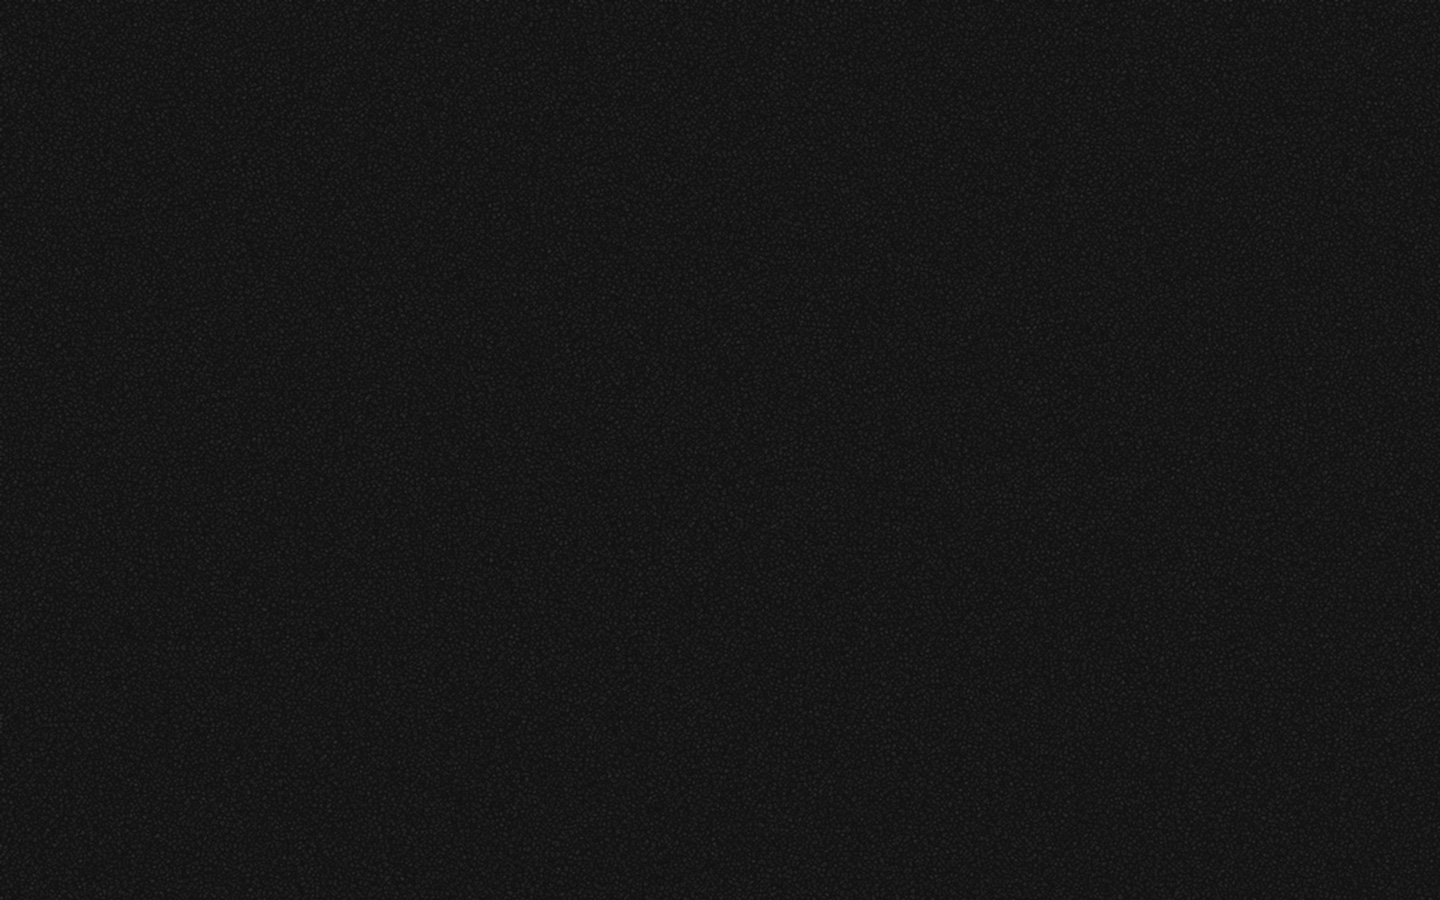
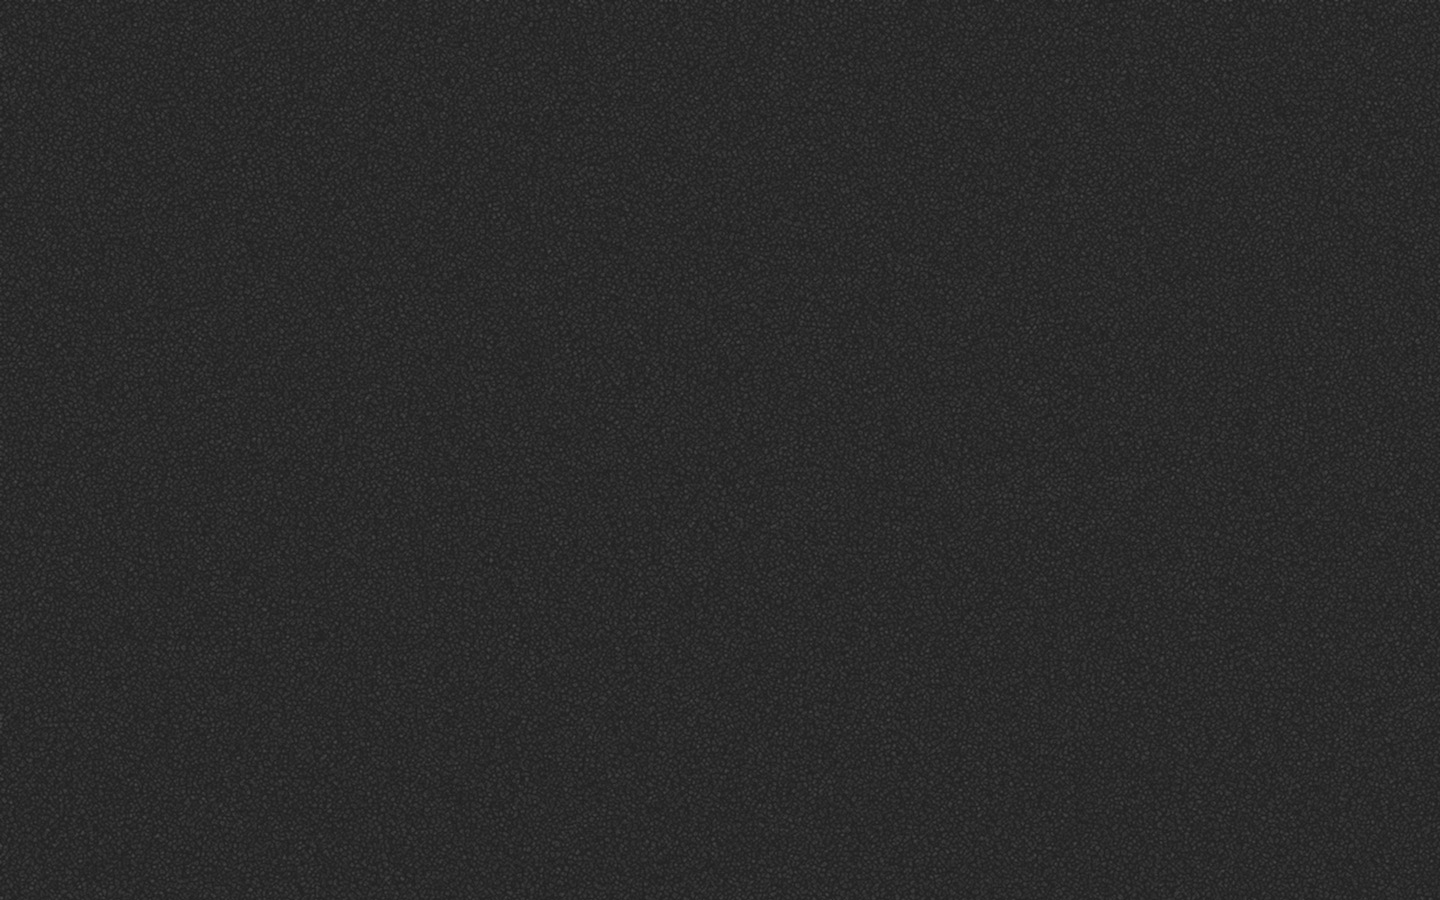
Howdy! CSS3 gradient sur le body

diff --git a/public/css/styles.css b/public/css/styles.css
@@ -53,8 +53,16 @@ body {
   width: 900px;
   margin: 0 auto;
   color: #fff;
-  background: #222 url(../images/bg.jpg) fixed;
+  background: #222 url(../images/bg2.jpg) fixed;
   font-family: 'Droid Sans', arial, serif;
+}
+
+.cssgradients body {
+  background-color: #222;
+  background-image: -moz-radial-gradient(center 45deg, circle farthest-side, rgba(0,0,0,0) 0%, rgba(0,0,0,.8) 150%), url(../images/bg2.jpg) ;
+  background-image: -webkit-gradient(radial, 50% 50%, 0, 50% 50%, 800, from(rgba(0,0,0,0)), to(rgba(0,0,0,.8))), url(../images/bg2.jpg) ;
+  background-image: radial-gradient(center 45deg, circle farthest-side, rgba(0,0,0,0) 0%, rgba(0,0,0,.8) 150%), url(../images/bg2.jpg) ;
+  background-attachment: fixed;
 }
 
 header {
